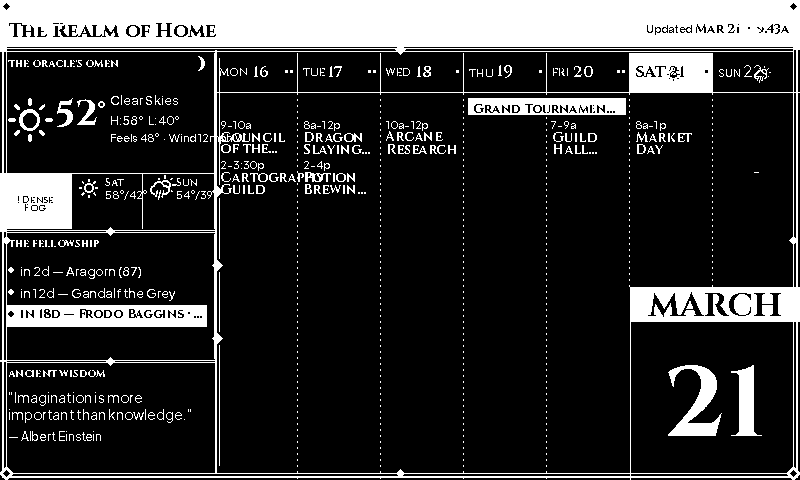
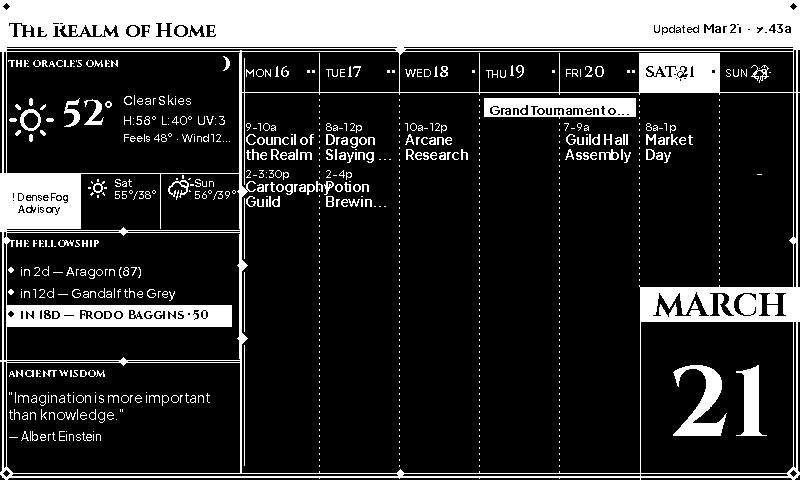
Fix text overflow in dnd_fantasy theme
weather_panel.py: rows 1, 3, 4 of the right detail column used bare draw.text
with no truncation, causing text to overflow the panel boundary at narrow
sidebar widths. Switch all four right-column rows to draw_text_truncated with
max_detail_w = w - detail_x_offset - pad. Also adds draw_text_truncated to the
import. This is a general correctness fix that benefits any theme using a narrow
weather panel.

dnd_fantasy.py:
- Widen sidebar from 215 to 240px — gives the weather right column 109px instead
  of 97px, reducing how aggressively the detail rows must truncate.
- Use Plus Jakarta Sans SemiBold for font_semibold (event titles, day labels) and
  reserve Cinzel Bold only for font_bold (day numbers, MARCH label, header title,
  section label text). Cinzel's wider letterforms were causing calendar event text
  to wrap more aggressively and pack visually tight in 83px columns.
- Raise spacing_scale from 0.9 → 1.0 for standard inter-event breathing room.

Updates output/theme_dnd_fantasy.png preview.

https://claude.ai/code/session_01NDKiYSfSD47CPJeKHpgCqM

diff --git a/src/render/components/weather_panel.py b/src/render/components/weather_panel.py
@@ -5,7 +5,9 @@ from PIL import ImageDraw
 from src.data.models import WeatherData
 from src.render import layout as L
 from src.render.fonts import bold, regular, medium, semibold, weather_icon as weather_icon_font
-from src.render.primitives import BLACK, WHITE, filled_rect, hline, text_width, vline
+from src.render.primitives import (
+    BLACK, WHITE, draw_text_truncated, filled_rect, hline, text_width, vline,
+)
 from src.render.icons import draw_weather_icon
 from src.render.moon import moon_phase_glyph
 from src.fetchers.weather import deg_to_compass
@@ -87,12 +89,13 @@ def draw_weather(
 
     # Right-column detail rows
     right_x = x0 + detail_x_offset
+    max_detail_w = w - detail_x_offset - pad
 
     # Row 1: description
     desc_font = style.font_medium(13)
-    draw.text(
-        (right_x, y0 + content_y_offset),
-        weather.current_description.title(), font=desc_font, fill=style.fg,
+    draw_text_truncated(
+        draw, (right_x, y0 + content_y_offset),
+        weather.current_description.title(), desc_font, max_detail_w, fill=style.fg,
     )
 
     # Row 2: hi/lo + UV index when available
@@ -100,10 +103,12 @@ def draw_weather(
     hilo_str = f"H:{weather.high:.0f}°  L:{weather.low:.0f}°"
     if weather.uv_index is not None:
         uv_suffix = f"  UV:{weather.uv_index:.0f}"
-        max_detail_w = w - detail_x_offset - pad
         if text_width(draw, hilo_str + uv_suffix, hilo_font) <= max_detail_w:
             hilo_str += uv_suffix
-    draw.text((right_x, y0 + hilo_y_offset), hilo_str, font=hilo_font, fill=style.fg)
+    draw_text_truncated(
+        draw, (right_x, y0 + hilo_y_offset), hilo_str, hilo_font, max_detail_w,
+        fill=style.fg,
+    )
 
     # Row 3: feels-like + wind speed
     detail3_font = style.font_regular(11)
@@ -115,16 +120,11 @@ def draw_weather(
         if weather.wind_deg is not None:
             wind_str += f" {deg_to_compass(weather.wind_deg)}"
         detail3_parts.append(wind_str)
-    if detail3_parts:
-        draw.text(
-            (right_x, y0 + detail3_y_offset),
-            "  ·  ".join(detail3_parts), font=detail3_font, fill=style.fg,
-        )
-    else:
-        draw.text(
-            (right_x, y0 + detail3_y_offset),
-            f"{weather.humidity}% humidity", font=detail3_font, fill=style.fg,
-        )
+    detail3_text = "  ·  ".join(detail3_parts) if detail3_parts else f"{weather.humidity}% humidity"
+    draw_text_truncated(
+        draw, (right_x, y0 + detail3_y_offset),
+        detail3_text, detail3_font, max_detail_w, fill=style.fg,
+    )
 
     # Row 4: sunrise / sunset
     if weather.sunrise is not None or weather.sunset is not None:
@@ -133,9 +133,9 @@ def draw_weather(
             sun_parts.append(f"↑{_fmt_time(weather.sunrise)}")
         if weather.sunset is not None:
             sun_parts.append(f"↓{_fmt_time(weather.sunset)}")
-        draw.text(
-            (right_x, y0 + detail4_y_offset),
-            "  ".join(sun_parts), font=detail3_font, fill=style.fg,
+        draw_text_truncated(
+            draw, (right_x, y0 + detail4_y_offset),
+            "  ".join(sun_parts), detail3_font, max_detail_w, fill=style.fg,
         )
 
     # Forecast strip along the bottom.

diff --git a/src/render/themes/dnd_fantasy.py b/src/render/themes/dnd_fantasy.py
@@ -17,7 +17,7 @@ from __future__ import annotations
 
 from typing import TYPE_CHECKING
 
-from src.render.fonts import cinzel_bold, cinzel_semibold, regular, medium
+from src.render.fonts import cinzel_bold, cinzel_semibold, regular, medium, semibold
 from src.render.theme import ComponentRegion, Theme, ThemeLayout, ThemeStyle
 
 if TYPE_CHECKING:
@@ -32,7 +32,7 @@ _CANVAS_W = 800
 _CANVAS_H = 480
 
 _HEADER_H = 50          # tall masthead for the fantasy title
-_SIDEBAR_W = 215        # arcane tower on the left
+_SIDEBAR_W = 240        # arcane tower on the left
 
 _BODY_Y = _HEADER_H
 _BODY_H = _CANVAS_H - _HEADER_H   # 430px
@@ -244,14 +244,16 @@ def dnd_fantasy_theme() -> Theme:
         invert_header=True,             # filled black header bar (already black = canvas bg)
         invert_today_col=True,          # white-filled today column with black text
         invert_allday_bars=True,        # solid white bars for all-day events
-        spacing_scale=0.9,              # slightly compact — more quests visible
+        spacing_scale=1.0,
         label_font_size=10,
         label_font_weight="bold",
-        # Cinzel for labels/headers; Plus Jakarta Sans for body (readable at small sizes)
+        # Cinzel Bold for large display text (day numbers, MARCH label, section headers).
+        # Cinzel SemiBold for section label text (THE ORACLE'S OMEN etc.).
+        # Plus Jakarta Sans for all event/body text — legible at small sizes in narrow columns.
         font_regular=regular,
         font_medium=medium,
-        font_semibold=cinzel_semibold,  # event titles in Cinzel semibold
-        font_bold=cinzel_bold,          # headers and day numbers in Cinzel bold
+        font_semibold=semibold,         # event titles stay in Plus Jakarta Sans
+        font_bold=cinzel_bold,          # day numbers, MARCH, header title in Cinzel
         component_labels={
             "weather": "THE ORACLE'S OMEN",
             "birthdays": "THE FELLOWSHIP",
